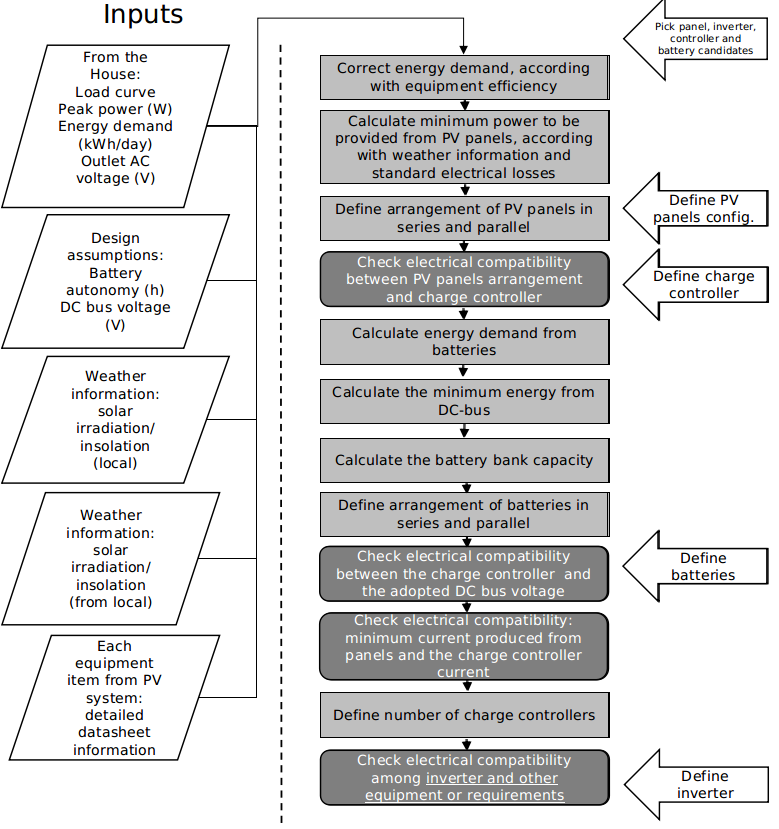
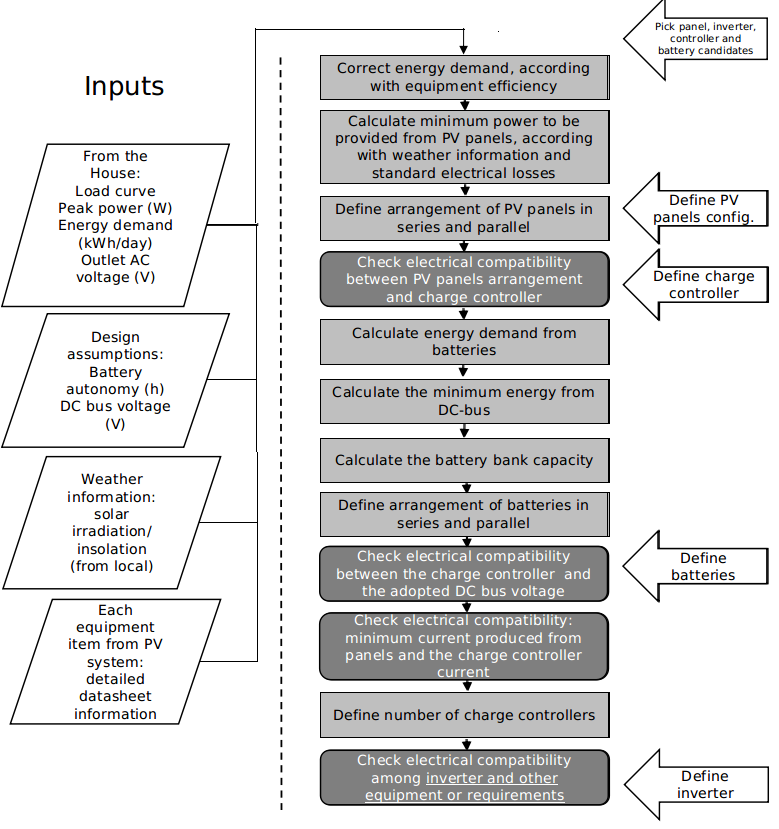
VSTTE rebuttal

diff --git a/Tex/CAV2019/Trindade_Cordeiro_VSTTE2020_rev2.tex b/Tex/CAV2019/Trindade_Cordeiro_VSTTE2020_rev2.tex
@@ -135,143 +135,22 @@ A PV system is illustrated in Fig.\ref{fig:blockdiagram}. It employs the PV gene
 \label{fig:blockdiagram} 
 \end{figure}
 
-The sizing check stage can ensure that the system meets the standard project steps related to the critical period method (worst month) for solar energy system sizing~\cite{Pinho} and adopting an MPPT (Maximum Power Point Tracking) charge controller, which is the most common in use. Firstly, we need to correct the daily energy consumption estimated for the load ($E_{consumption}$), which is carried out by Eq.~\eqref{eq:Ecorrected}, where the efficiency of batteries ($\eta_{b}$), controller ($\eta_{c}$), and inverter ($\eta_{i}$) are considered~\cite{Pinho}.
+The sizing check stage can ensure that the system meets the standard project steps related to the critical period method (worst month) for solar energy system sizing~\cite{Pinho} and adopting an MPPT (Maximum Power Point Tracking) charge controller, which is the most common in use. 
 
-\begin{equation}
-\label{eq:Ecorrected}
-E_{corrected} = \dfrac{E_{consumption}}{\eta_{b} \times \eta_{c} \times \eta_{i} }
-\end{equation}
+\textcolor{blue}{In this paper, which audience is targeted to be from software verification area, we decided to use a higher level explanation about the PV sizing. The sizing process involve a set of 18 equations, related to electrical engineering area, which are detailed in <GoogleDrive here>. The flowchart pictured in Fig.~\ref{fig:flow}  is the overview of the steps that must be taken in order to size a stand-alone PV system}
 
-We must estimate the total power that will be demanded from the PV panels, as defined by Eq. ~\eqref{eq:Pminpanel}. Where $Insolation$, also called solar irradiation or solar exposure, is expressed in terms of $kWh/m^{2}$ per day and depends on the site where the PV system will be deployed. \textcolor{blue}{An empirical factor of $20$\% for losses is considered~\cite{Pinho}}, because $1.25 = 1 \mathbin{/} (1 - 0.2)$.
+\begin{figure}[h]
+\fbox{\includegraphics[width=0.8\textwidth]{flowchart2}}
+\centering
+\caption{High level description of stand-alone PV system sizing process.}
+\label{fig:flow} 
+\end{figure}
 
-\begin{equation}
-\label{eq:Pminpanel}
-P_{min,panels} = \dfrac{1.25 \times E_{corrected}}{Insolation}
-\end{equation}
+\textcolor{blue}{On the left side of Fig.~\ref{fig:flow} it is possible to visualize the inputs need to size a PV system. There are requirements from the house to be electrified, there are design assumptions, weather information from the targeted local of the PV system deployment, and a possible initial list of equipment to be used, covering all the items listed in Fig.\ref{fig:blockdiagram}. Related to the equipment list, the designer can use few equipment or a vast one. It is possible, as well, do not adopt commercial equipment list. However, the result is a PV sizing of specific power/current/ or voltage values, and usually just close of real equipment that can be found in the market. That possibility has the drawback of possible incompatibility among equipment when the real one are bought and deployed.}
 
-On the one hand, the sizing must meet this requirement of minimum power supplied from the PV panels $P_{min,panels}$. On the other hand, the arrangement, if in series or parallel connections, it will depend on the charge controller specification of current $I_{c}$ and voltage $V_{c}$, as described by Eqs.~\eqref{eq:Icmin} and \eqref{eq:Vcmin}.
+\textcolor{blue}{There are specific steps that aim the calculation of some variables and other related to the electrical compatibility validation among equipment items. Those represent different shades of gray of the  rectangle boxes. The start point usually is a candidate list of PV panels, change controller, battery, and inverter, as indicated at the top of Fig.~\ref{fig:flow}. The arrows, in the right side, it shows a point where some specific item is validated. The flowchart do not shows the returning point, but if the candidate item is not compatible with other, or do not meet some calculated requirement, it must be changed to other in order to follow the indicated flux. At the end of the flow, all the items are defined and the sizing is finished.}
 
-\begin{subequations}
- \begin{tabularx}{\textwidth}{Xp{1cm}X}
-\begin{equation}
-\label{eq:Icmin}
-I_{c} \geq I_{total,PVpanels}
-\end{equation}
- & &
-\begin{equation}
-\label{eq:Vcmin}
-V_{c} \geq V_{total,PVpanels}
-\end{equation}
-\end{tabularx}
-\end{subequations}
-
-Concerning the batteries, the energy $E_{b}$ to be demanded by the PV system, in order to meet the load requirements, is defined by Eq.~\eqref{eq:Ebat}.
-
-\begin{equation}
-\label{eq:Ebat}
-E_{b} = \dfrac{Autonomy \times E_{corrected}}{DOD}
-\end{equation}
-
-\noindent Where $Autonomy$ is the number of days expected for the PV system to work even when rain or clouds avoid the recharging of batteries usually is a design definition and has a value ranging from $0.5$ to $2$ days. $DOD$ is the depth of discharge or the fraction of discharge. The $DOD$ is usually $25$\% for lead-acid batteries, and $80$\% for lithium batteries \textcolor{blue}{and represent an intrinsic and empirical feature of those type of batteries~\cite{Pinho} in order to guarantee its lifetime}; that represents a State of Charge ($SOC$) of $75$\% and $20$\% respectively, because $SOC=1-DOD$. However, it is worth separating the $DOD$ into two different definitions when the battery autonomy is larger than one day ($24$ hours). \textcolor{blue}{Therefore, the definition given here is for a maximum of $DOD$}. When we deal with daily $DOD$, we will call it $DOD_{day}$, and obviously, the sum of every $DOD_{day}$ can not exceed the maximum $DOD$.
-
-In order to define the $DOD_{day}$, we use Eq.~\eqref{eq:DODday}. Moreover, the minimum current from the DC bus is defined by Eq.~\eqref{eq:Idcbus}. This equation is important to define the battery arrangement of the system (series and parallel connections). Where $V_{system}$ is the DC voltage of the bus.
-
-\begin{subequations}
- \begin{tabularx}{\textwidth}{Xp{1cm}X}
-\begin{equation}
-\label{eq:DODday}
-DOD_{day} = \dfrac{E_{corrected} \times 100}{E_{b}}
-\end{equation}
- & &
-\begin{equation}
-\label{eq:Idcbus}
-I_{min,DCbus} = \dfrac{E_{b}}{V_{system}}
-\end{equation}
-\end{tabularx}
-\end{subequations}
-
-As for batteries, we must first define the total capacity of the battery bank, which can be described as shown in Eq.~\ref{eq:Cbank}. where $ E_{load} $ is the average energy consumed by the load corrected according to PV equipment efficiency, and $ \eta_{b} $ is the efficiency of the battery.
-
-\begin{equation}
-\label{eq:Cbank}
-\textcolor{blue}{C_{bank} = \dfrac{Autonomy \times E_{load}}{DOD \times \eta_{b} \times V_{system}}}
-\end{equation}
-
-Eq.~\ref{eq:batcheck} then performs the final sizing check, considering the number of batteries in series ($ N_{BS} $) and the number of batteries in parallel ($ N_{BP} $) adopted in the project.
-
-\begin{equation}
-\label{eq:batcheck}
-\left( N_{BS} \times N_{BP} \right) \geq N_{B}total
-\end{equation}
-
-The charge controller must initially meet the voltage requirement of the PV system, as described by Eq.~\eqref{eq:vcvsystem}.
- 
-\begin{equation}
-\label{eq:vcvsystem}
-V_{c} = V_{system}
-\end{equation}
-
-\textcolor{blue}{The short circuit reference information ($I_{sc,ref}$) from the manufacturer's solar panel must be corrected because field temperature ($T$) is higher than nominal or laboratory temperature ($25^{\circ}C$), and the PV system is temperature dependent, as described by Eq.~\eqref{eq:iscamb} for the ambient short-circuit current from the PV panel. $G$ is the solar irradiance from the deployment site, and $G_{ref}$ is defined as $1000$ $W/m^{2}$ by the manufacturers.}
-
-\begin{equation}
-\label{eq:iscamb}
-I_{sc,amb} = \dfrac{G}{G_{ref}} \left[ I_{sc,ref} + \mu_{I} \times (T-25) \right] 
-\end{equation}
-
-The controller must meet the maximum current from the PV array given by Eqs.~\eqref{eq:icmin} and~\eqref{eq:icicmin}. Where $N_{PP}$ is the number of parallel panels adopted.
-
-\begin{subequations}
- \begin{tabularx}{\textwidth}{Xp{1cm}X}
-\begin{equation}
-\label{eq:icmin}
-I_{c,min} = I_{sc,amb} \times N_{PP}
-\end{equation}
-& &
-\begin{equation}
-\label{eq:icicmin}
-I_{c} \geq I_{c,min}
-\end{equation}
-\end{tabularx}
-\end{subequations}
-
-The number of controllers required for the off-grid PV system, as defined by \cite{Yatimi}, is calculated using Eq.~\eqref{eq:numberofcmin}. Besides, the final sizing check is performed by Eq.~\eqref{eq:numberofc}, which validates the number of controllers adopted.
-
-\begin{equation}
-\label{eq:numberofcmin}
-number_{controllers} = \dfrac{Total \, max \, power \, of \, PV}{Controller \, max \, power} = \dfrac{P_{m,ref} \times N_{TP}}{V_{system} \times I_{controller,max}}
-\end{equation}
-
-\begin{equation}
-\label{eq:numberofc}
-N_{controller} \geq number_{controllers}
-\end{equation}
-
-The inverter sizing check is performed through three equations. Eq.~\eqref{eq:vindc} ensures that the input voltage of the controller meets the system voltage. Eq.~\eqref{eq:voutac} ensures that the output voltage of the controller meets the AC voltage of the load, i.e., the outlet voltage. Finally, Eq.~\eqref{eq:invcheck} ensures that the controller can support the total demand of the load ($Demand$) and the surge power ($P_{surge}$), where $V_{in}DC$ is the nominal input voltage, and $V_{out}AC$ is the nominal output voltage of the inverter; $MAX_{AC,ref}$ is the peak power that the inverter can support.
-
-\begin{subequations}
- \begin{tabularx}{\textwidth}{Xp{1cm}X}
-\begin{equation}
-\label{eq:vindc} 
-V_{in}DC = V_{system}
-\end{equation}
-& &
-\begin{equation}
-\label{eq:voutac} 
-V_{out}AC = V_{AC}
-\end{equation}
-\end{tabularx}
-\end{subequations}
-
-\begin{equation}
-\label{eq:invcheck} 
-\left[ (Demand \leq P_{AC,ref}) \, and \, (P_{surge} \leq MAX_{AC,ref}) \right]
-\end{equation}
-
-Some inverter models allow parallel operation of more than one unit, besides the integration to create bi- and three-phase circuits. It is advisable to use pure sine wave inverters for electronic loads sensitive to harmonic distortion waves.
-
-Besides that, it is crucial to verify the compatibility between the charge controller and inverter because some models are not compatible with equipment from other manufacturers. Furthermore, it is vital to select an inverter power that is lower than (or equal) the charge controller power, because the demand from the electric load causes the inverter to transfer this demand from the DC side. Then the controller can be overcharged during this operation and burn.
-
-All the equations above model the continuous-time behaviour of the PV system; they produce real numbers except for the batteries and panels, where real numbers must be converted into integer ones, considering the minimum or maximum according to each equation. The verification and simulation tools need to handle non-linear real arithmetic to produce the correct result.
+\textcolor{blue}{All the 18 equations used, model} the continuous-time behaviour of the PV system; they produce real numbers except for the batteries and panels, where real numbers must be converted into integer ones, considering the minimum or maximum according to each equation. The verification and simulation tools need to handle non-linear real arithmetic to produce the correct result.
 
 %------------------------------------------------------
 \section{Synthesizing Optimal Sizing of Stand-alone Solar Photovoltaic Systems}

diff --git a/Tex/CAV2019/VSTTE_PV_sizing_Trindade_Cordeiro_2020.tex b/Tex/CAV2019/VSTTE_PV_sizing_Trindade_Cordeiro_2020.tex
@@ -1,0 +1,163 @@
+\documentclass[12pt,a4paper]{article}
+\usepackage[utf8]{inputenc}
+\usepackage[english]{babel}
+\usepackage{amsmath}
+\usepackage{amsfonts}
+\usepackage{amssymb}
+\usepackage{graphicx}
+\usepackage{algorithm,algorithmic}
+\usepackage{xcolor}
+%\documentclass[runningheads]{llncs}
+
+\begin{document}
+
+\begin{center}
+\textbf{Synthesis of Solar Photovoltaic Systems: Optimal Sizing Comparison} \\
+
+VSTTE 2020 - 12th Working Conference on Verified Software: Theories, Tools, and Experiments\\
+
+Alessandro Trindade and Lucas Cordeiro \\
+\end{center}
+
+
+
+%%%%%%%%%%%%%%%%%%%%%%%%%%%%%%%%%%%%%%%%%%%%%%%%%%%%%%%%
+\section{Sizing Stand-alone Solar PV Systems}
+\label{sec:sizing}
+%%%%%%%%%%%%%%%%%%%%%%%%%%%%%%%%%%%%%%%%%%%%%%%%%%%%%%%%
+
+A PV system is illustrated in Fig.\ref{fig:blockdiagram}. It employs the PV generator (\textit{panel or an array}), which is a semiconductor device that can convert solar energy into DC electricity. For night hours or rainy days, we hold \textit{batteries}, where power can be stored and used. The use of batteries as a storage form implies the presence of a \textit{charge controller}~\cite{Hansen}. The PV arrays produce DC, and therefore when the PV system contains an AC load, a DC/AC conversion is required (\textit{inverter}). The \textit{AC load} dictates the behaviour of the AC electrical load from the house that will be fed by the system.
+
+\begin{figure}[h]
+\fbox{\includegraphics[width=0.8\textwidth]{blockdiagramPVS2_rev}}
+\centering
+\caption{Block diagram for a typical stand-alone PV system~\cite{Hansen}.}
+\label{fig:blockdiagram} 
+\end{figure}
+
+The sizing check stage can ensure that the system meets the standard project steps related to the critical period method (worst month) for solar energy system sizing~\cite{Pinho} and adopting an MPPT (Maximum Power Point Tracking) charge controller, which is the most common in use. Firstly, we need to correct the daily energy consumption estimated for the load ($E_{consumption}$), which is carried out by Eq.~\eqref{eq:Ecorrected}, where the efficiency of batteries ($\eta_{b}$), controller ($\eta_{c}$), and inverter ($\eta_{i}$) are considered~\cite{Pinho}.
+
+\begin{equation}
+\label{eq:Ecorrected}
+E_{corrected} = \dfrac{E_{consumption}}{\eta_{b} \times \eta_{c} \times \eta_{i} }
+\end{equation}
+
+We must estimate the total power that will be demanded from the PV panels, as defined by Eq. ~\eqref{eq:Pminpanel}. Where $Insolation$, also called solar irradiation or solar exposure, is expressed in terms of $kWh/m^{2}$ per day and depends on the site where the PV system will be deployed. \textcolor{blue}{An empirical factor of $20$\% for losses is considered~\cite{Pinho}}, because $1.25 = 1 \mathbin{/} (1 - 0.2)$.
+
+\begin{equation}
+\label{eq:Pminpanel}
+P_{min,panels} = \dfrac{1.25 \times E_{corrected}}{Insolation}
+\end{equation}
+
+On the one hand, the sizing must meet this requirement of minimum power supplied from the PV panels $P_{min,panels}$. On the other hand, the arrangement, if in series or parallel connections, it will depend on the charge controller specification of current $I_{c}$ and voltage $V_{c}$, as described by Eqs.~\eqref{eq:Icmin} and \eqref{eq:Vcmin}.
+
+\begin{equation}
+\label{eq:Icmin}
+I_{c} \geq I_{total,PVpanels}
+\end{equation}
+
+\begin{equation}
+\label{eq:Vcmin}
+V_{c} \geq V_{total,PVpanels}
+\end{equation}
+
+Concerning the batteries, the energy $E_{b}$ to be demanded by the PV system, in order to meet the load requirements, is defined by Eq.~\eqref{eq:Ebat}.
+
+\begin{equation}
+\label{eq:Ebat}
+E_{b} = \dfrac{Autonomy \times E_{corrected}}{DOD}
+\end{equation}
+
+\noindent Where $Autonomy$ is the number of days expected for the PV system to work even when rain or clouds avoid the recharging of batteries usually is a design definition and has a value ranging from $0.5$ to $2$ days. $DOD$ is the depth of discharge or the fraction of discharge. The $DOD$ is usually $25$\% for lead-acid batteries, and $80$\% for lithium batteries \textcolor{blue}{and represent an intrinsic and empirical feature of those type of batteries~\cite{Pinho} in order to guarantee its lifetime}; that represents a State of Charge ($SOC$) of $75$\% and $20$\% respectively, because $SOC=1-DOD$. However, it is worth separating the $DOD$ into two different definitions when the battery autonomy is larger than one day ($24$ hours). \textcolor{blue}{Therefore, the definition given here is for a maximum of $DOD$}. When we deal with daily $DOD$, we will call it $DOD_{day}$, and obviously, the sum of every $DOD_{day}$ can not exceed the maximum $DOD$.
+
+In order to define the $DOD_{day}$, we use Eq.~\eqref{eq:DODday}. Moreover, the minimum current from the DC bus is defined by Eq.~\eqref{eq:Idcbus}. This equation is important to define the battery arrangement of the system (series and parallel connections). Where $V_{system}$ is the DC voltage of the bus.
+
+
+\begin{equation}
+\label{eq:DODday}
+DOD_{day} = \dfrac{E_{corrected} \times 100}{E_{b}}
+\end{equation}
+
+\begin{equation}
+\label{eq:Idcbus}
+I_{min,DCbus} = \dfrac{E_{b}}{V_{system}}
+\end{equation}
+
+As for batteries, we must first define the total capacity of the battery bank, which can be described as shown in Eq.~\ref{eq:Cbank}. where $ E_{load} $ is the average energy consumed by the load corrected according to PV equipment efficiency, and $ \eta_{b} $ is the efficiency of the battery.
+
+\begin{equation}
+\label{eq:Cbank}
+\textcolor{blue}{C_{bank} = \dfrac{Autonomy \times E_{load}}{DOD \times \eta_{b} \times V_{system}}}
+\end{equation}
+
+Eq.~\ref{eq:batcheck} then performs the final sizing check, considering the number of batteries in series ($ N_{BS} $) and the number of batteries in parallel ($ N_{BP} $) adopted in the project.
+
+\begin{equation}
+\label{eq:batcheck}
+\left( N_{BS} \times N_{BP} \right) \geq N_{B}total
+\end{equation}
+
+The charge controller must initially meet the voltage requirement of the PV system, as described by Eq.~\eqref{eq:vcvsystem}.
+ 
+\begin{equation}
+\label{eq:vcvsystem}
+V_{c} = V_{system}
+\end{equation}
+
+\textcolor{blue}{The short circuit reference information ($I_{sc,ref}$) from the manufacturer's solar panel must be corrected because field temperature ($T$) is higher than nominal or laboratory temperature ($25^{\circ}C$), and the PV system is temperature dependent, as described by Eq.~\eqref{eq:iscamb} for the ambient short-circuit current from the PV panel. $G$ is the solar irradiance from the deployment site, and $G_{ref}$ is defined as $1000$ $W/m^{2}$ by the manufacturers.}
+
+\begin{equation}
+\label{eq:iscamb}
+I_{sc,amb} = \dfrac{G}{G_{ref}} \left[ I_{sc,ref} + \mu_{I} \times (T-25) \right] 
+\end{equation}
+
+The controller must meet the maximum current from the PV array given by Eqs.~\eqref{eq:icmin} and~\eqref{eq:icicmin}. Where $N_{PP}$ is the number of parallel panels adopted.
+
+\begin{equation}
+\label{eq:icmin}
+I_{c,min} = I_{sc,amb} \times N_{PP}
+\end{equation}
+
+\begin{equation}
+\label{eq:icicmin}
+I_{c} \geq I_{c,min}
+\end{equation}
+
+The number of controllers required for the off-grid PV system, as defined by \cite{Yatimi}, is calculated using Eq.~\eqref{eq:numberofcmin}. Besides, the final sizing check is performed by Eq.~\eqref{eq:numberofc}, which validates the number of controllers adopted.
+
+\begin{equation}
+\label{eq:numberofcmin}
+number_{controllers} = \dfrac{Total \, max \, power \, of \, PV}{Controller \, max \, power} = \dfrac{P_{m,ref} \times N_{TP}}{V_{system} \times I_{controller,max}}
+\end{equation}
+
+\begin{equation}
+\label{eq:numberofc}
+N_{controller} \geq number_{controllers}
+\end{equation}
+
+The inverter sizing check is performed through three equations. Eq.~\eqref{eq:vindc} ensures that the input voltage of the controller meets the system voltage. Eq.~\eqref{eq:voutac} ensures that the output voltage of the controller meets the AC voltage of the load, i.e., the outlet voltage. Finally, Eq.~\eqref{eq:invcheck} ensures that the controller can support the total demand of the load ($Demand$) and the surge power ($P_{surge}$), where $V_{in}DC$ is the nominal input voltage, and $V_{out}AC$ is the nominal output voltage of the inverter; $MAX_{AC,ref}$ is the peak power that the inverter can support.
+
+\begin{equation}
+\label{eq:vindc} 
+V_{in}DC = V_{system}
+\end{equation}
+
+\begin{equation}
+\label{eq:voutac} 
+V_{out}AC = V_{AC}
+\end{equation}
+
+\begin{equation}
+\label{eq:invcheck} 
+\left[ (Demand \leq P_{AC,ref}) \, and \, (P_{surge} \leq MAX_{AC,ref}) \right]
+\end{equation}
+
+Some inverter models allow parallel operation of more than one unit, besides the integration to create bi- and three-phase circuits. It is advisable to use pure sine wave inverters for electronic loads sensitive to harmonic distortion waves.
+
+Besides that, it is crucial to verify the compatibility between the charge controller and inverter because some models are not compatible with equipment from other manufacturers. Furthermore, it is vital to select an inverter power that is lower than (or equal) the charge controller power, because the demand from the electric load causes the inverter to transfer this demand from the DC side. Then the controller can be overcharged during this operation and burn.
+
+\bibliographystyle{splncs04}
+\bibliography{trindadeThesis}
+
+
+\end{document}
